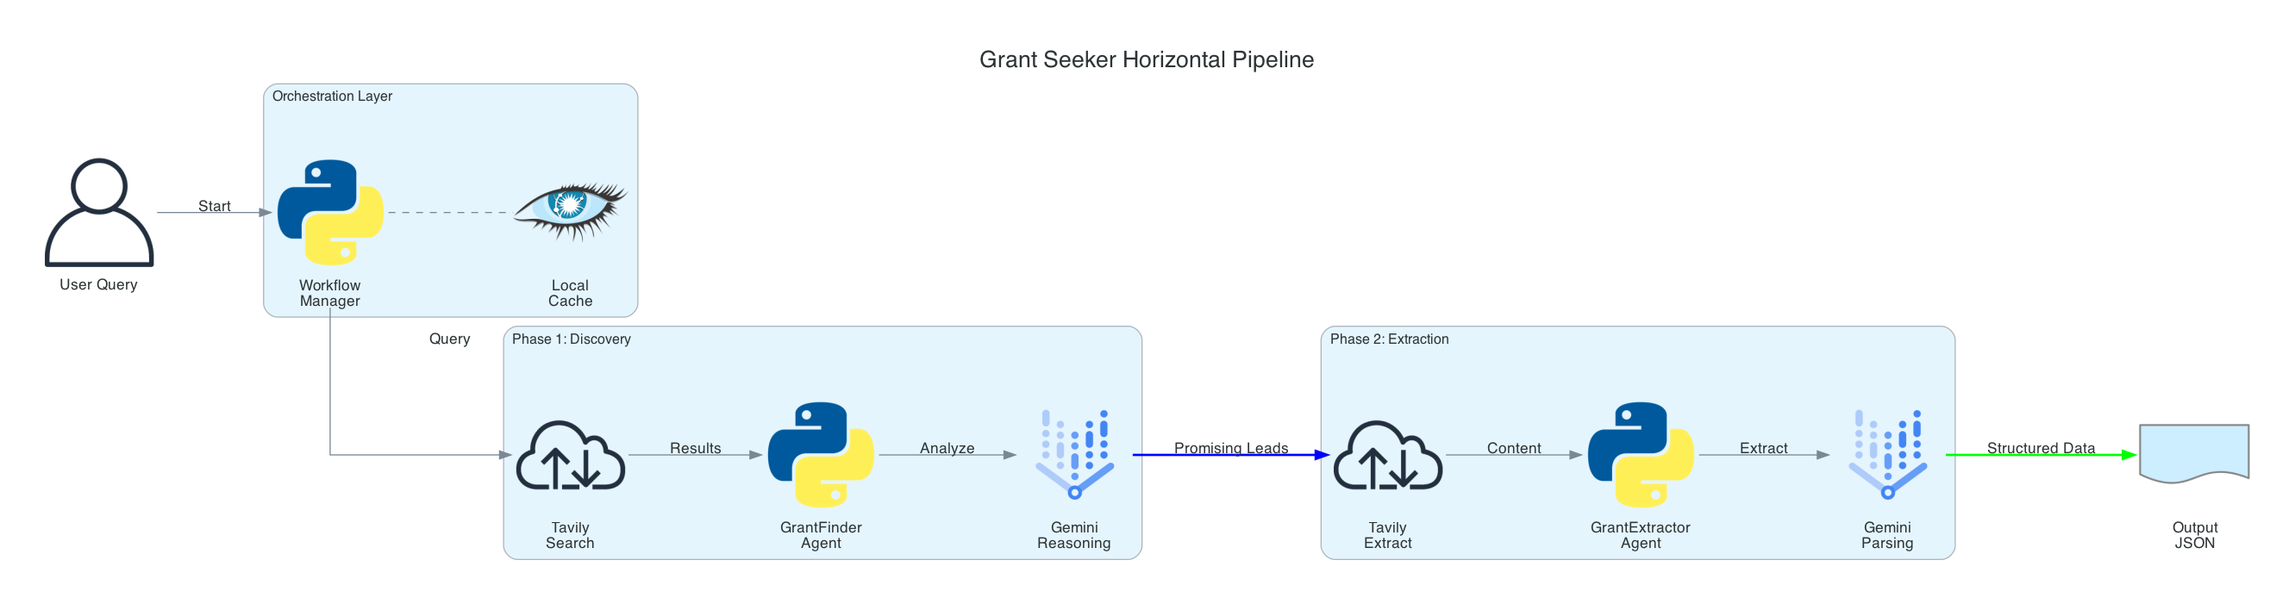
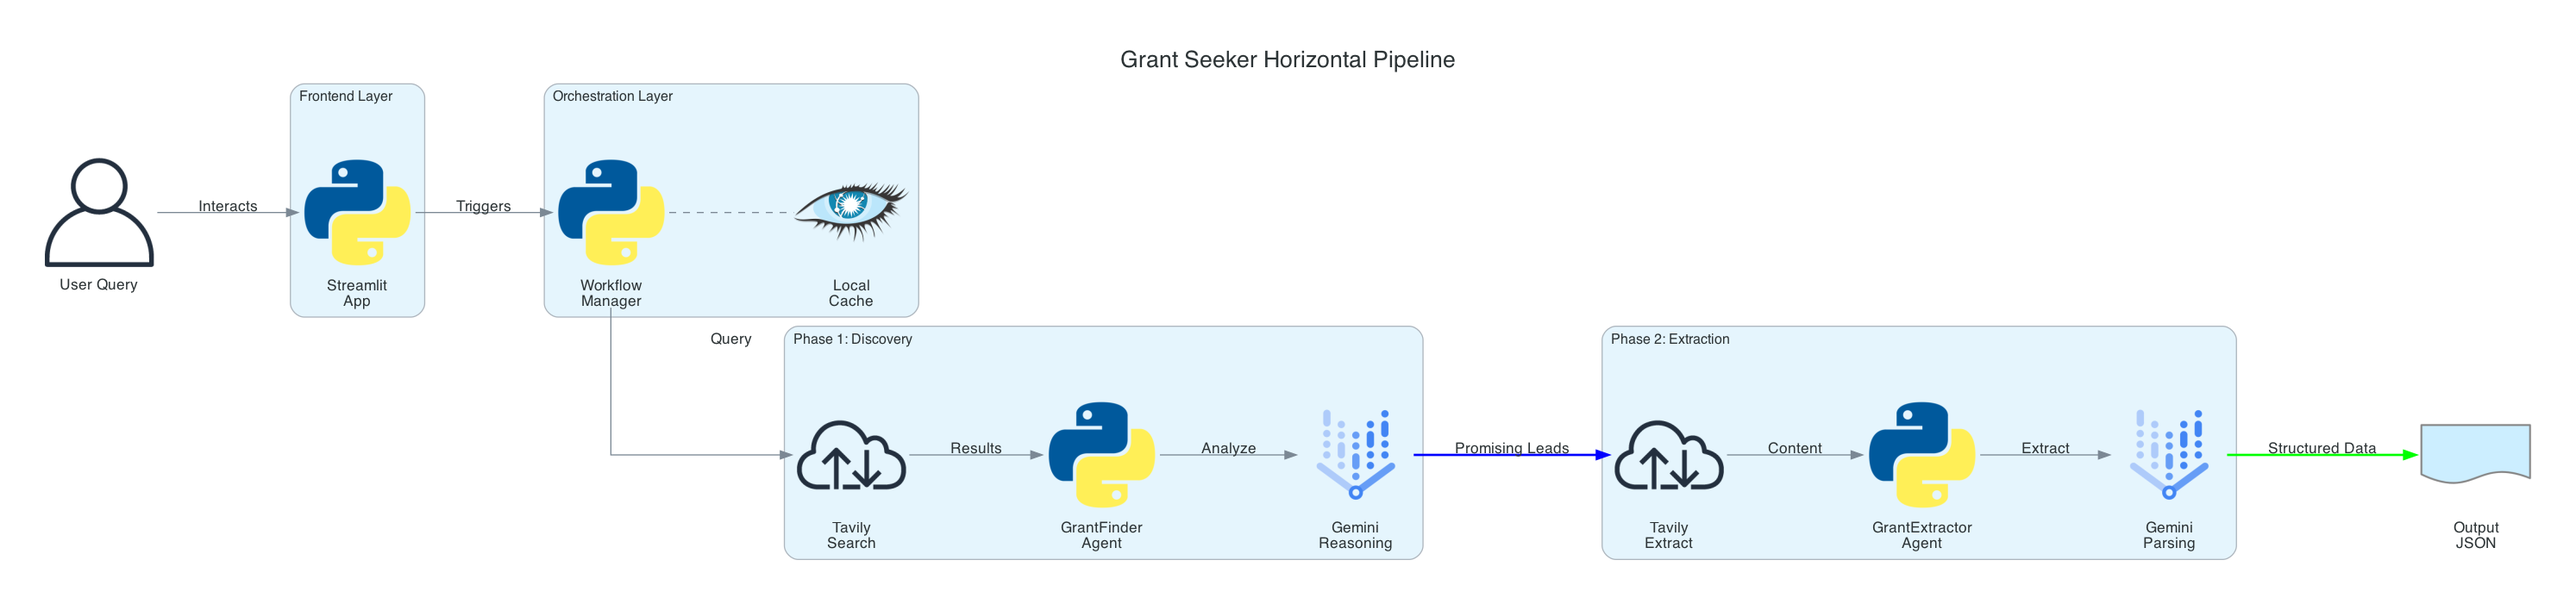
updated diagram but not finalized

diff --git a/architecture_diagram.py b/architecture_diagram.py
@@ -215,6 +215,78 @@
 # print("Diagram generated: grant_seeker_horizontal_pipeline.png")
 
 
+# from diagrams import Diagram, Cluster, Edge
+# from diagrams.onprem.client import User
+# from diagrams.programming.language import Python
+# from diagrams.onprem.database import Cassandra
+# from diagrams.gcp.ml import VertexAI
+# from diagrams.onprem.network import Internet
+# from diagrams.programming.flowchart import Document
+
+# # Graph attributes for a wide, landscape view
+# graph_attr = {
+#     "fontsize": "20",
+#     "bgcolor": "white",
+#     "pad": "0.5",
+#     "splines": "ortho",  # Orthogonal (straight) lines
+#     "nodesep": "0.5",    # Horizontal separation
+#     "ranksep": "1.0",    # Vertical separation between groups
+#     "labelloc": "t"      # Label at the top
+# }
+
+# with Diagram("Grant Seeker Horizontal Pipeline", show=False, direction="LR", graph_attr=graph_attr):
+    
+#     # --- Far Left: Input ---
+#     user = User("User Query")
+
+#     # --- Control Center ---
+#     with Cluster("Orchestration Layer"):
+#         orchestrator = Python("Workflow\nManager")
+#         cache = Cassandra("Local\nCache")
+        
+#     # --- Middle Left: Phase 1 ---
+#     with Cluster("Phase 1: Discovery"):
+#         search_api = Internet("Tavily\nSearch")
+#         finder_agent = Python("GrantFinder\nAgent")
+#         gemini_1 = VertexAI("Gemini\nReasoning")
+
+#     # --- Middle Right: Phase 2 ---
+#     with Cluster("Phase 2: Extraction"):
+#         scrape_api = Internet("Tavily\nExtract")
+#         extractor_agent = Python("GrantExtractor\nAgent")
+#         gemini_2 = VertexAI("Gemini\nParsing")
+
+#     # --- Far Right: Output ---
+#     results = Document("Output\nJSON")
+
+#     # ==========================================
+#     # DEFINING THE FLOW (Left -> Right)
+#     # ==========================================
+
+#     # 1. Input processing
+#     user >> Edge(label="Start") >> orchestrator
+#     orchestrator - Edge(style="dashed") - cache # Bi-directional check
+
+#     # 2. Phase 1 Flow
+#     orchestrator >> Edge(label="Query") >> search_api
+#     search_api >> Edge(label="Results") >> finder_agent
+#     finder_agent >> Edge(label="Analyze") >> gemini_1
+    
+#     # 3. Transition (The "Handoff")
+#     # Connecting Phase 1 Agent to Phase 2 Tools visually implies the pipeline flow
+#     gemini_1 >> Edge(label="Promising Leads", style="bold", color="blue") >> scrape_api
+
+#     # 4. Phase 2 Flow
+#     scrape_api >> Edge(label="Content") >> extractor_agent
+#     extractor_agent >> Edge(label="Extract") >> gemini_2
+
+#     # 5. Final Output
+#     gemini_2 >> Edge(label="Structured Data", style="bold", color="green") >> results
+
+# print("Diagram generated: grant_seeker_horizontal_pipeline.png")
+
+
+
 from diagrams import Diagram, Cluster, Edge
 from diagrams.onprem.client import User
 from diagrams.programming.language import Python
@@ -238,6 +310,10 @@ with Diagram("Grant Seeker Horizontal Pipeline", show=False, direction="LR", gra
     
     # --- Far Left: Input ---
     user = User("User Query")
+
+    # --- Frontend Layer ---
+    with Cluster("Frontend Layer"):
+        ui = Python("Streamlit\nApp")
 
     # --- Control Center ---
     with Cluster("Orchestration Layer"):
@@ -264,7 +340,8 @@ with Diagram("Grant Seeker Horizontal Pipeline", show=False, direction="LR", gra
     # ==========================================
 
     # 1. Input processing
-    user >> Edge(label="Start") >> orchestrator
+    user >> Edge(label="Interacts") >> ui
+    ui >> Edge(label="Triggers") >> orchestrator
     orchestrator - Edge(style="dashed") - cache # Bi-directional check
 
     # 2. Phase 1 Flow

diff --git a/backend/adk_agent.py b/backend/adk_agent.py
@@ -387,7 +387,6 @@ class GrantSeekerWorkflow:
         
         # Create agents
         self.finder_agent = create_finder_agent()
-        self.finder_agent = create_finder_agent()
         self.extractor_agent = create_extractor_agent()
         self.query_agent = create_query_agent()
     
